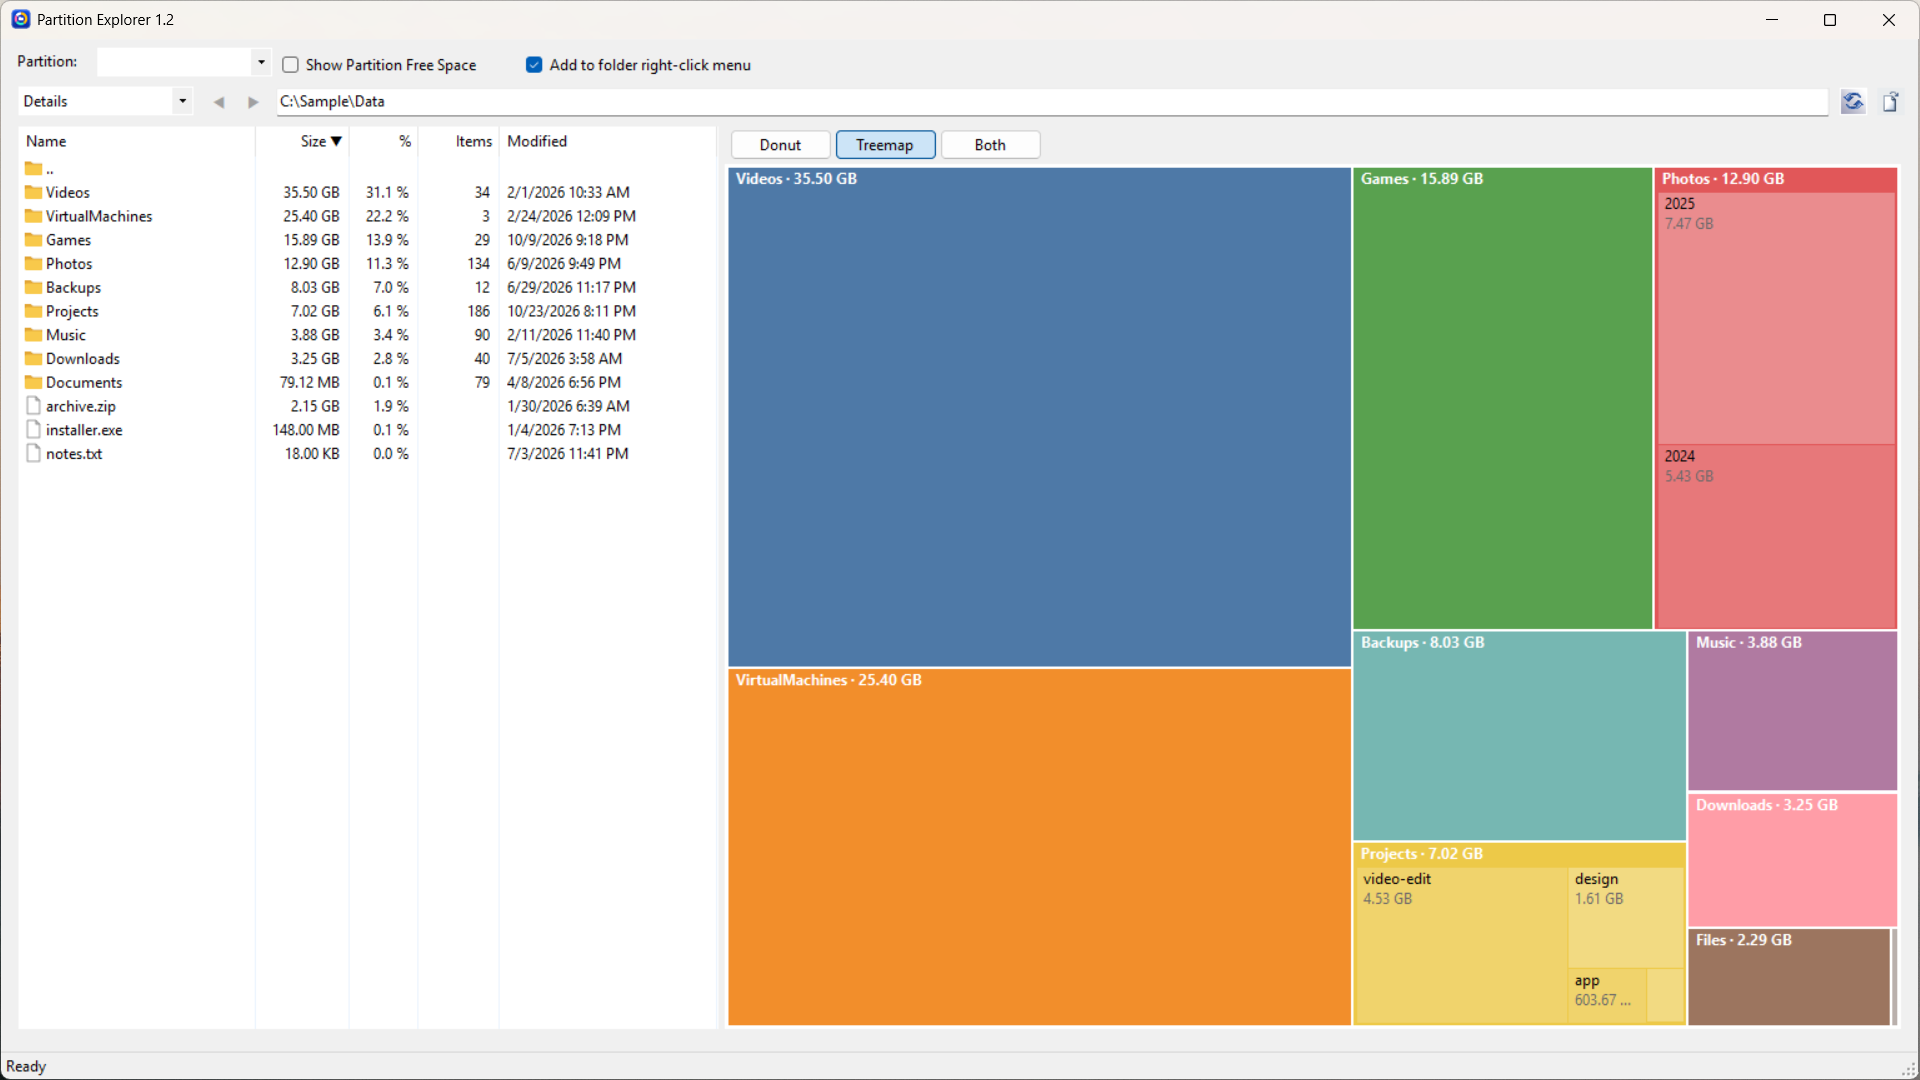
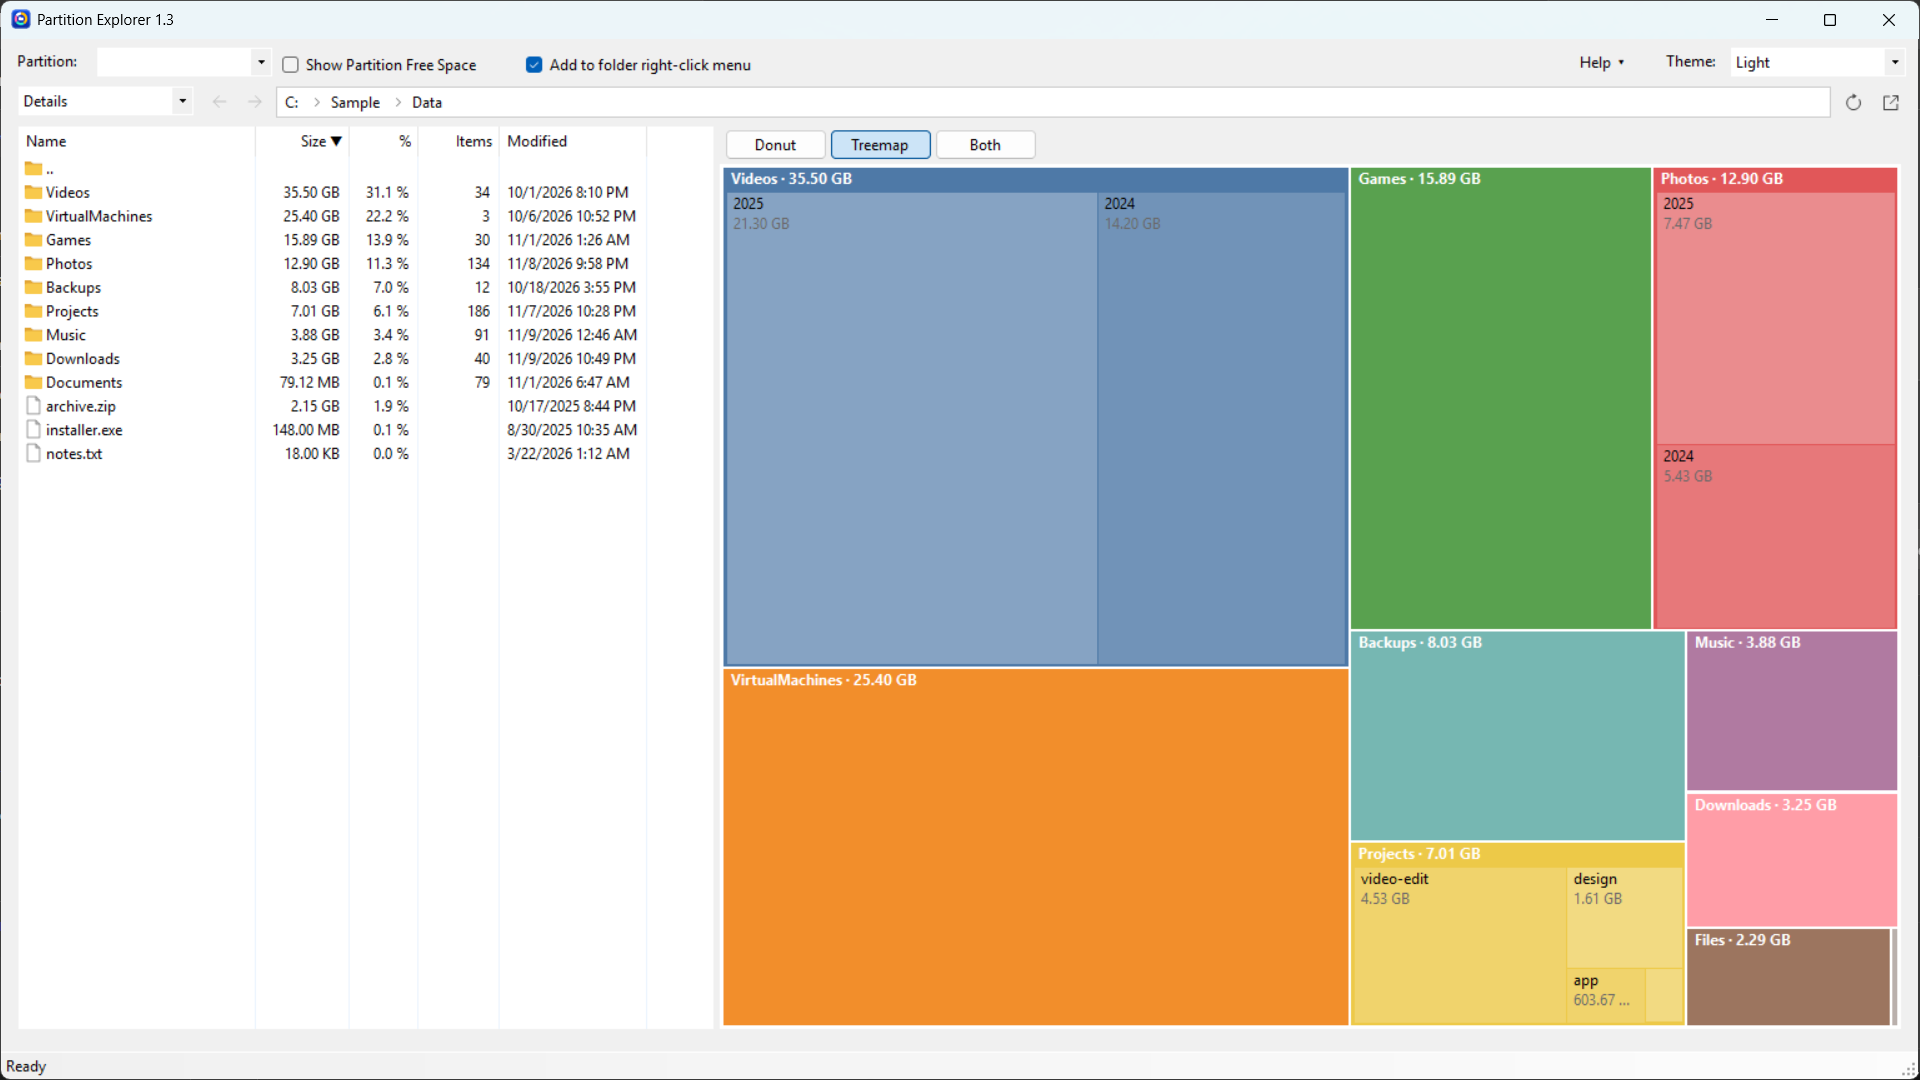
Retake screenshots for 1.3 and add a dark theme shot
Retake the README hero image and the five 1920x1080 screenshots in
docs/screenshots with the same neutral sample tree, so they show the 1.3
UI: the breadcrumb path bar, flat toolbar icons, Help button and Theme
drop-down. Add 06-dark (Both view in the dark theme) and list it in the
README's "More screenshots" table.

Claude-Session: https://claude.ai/code/session_01Sbopy5mp93H2gZmTNNUc7G

diff --git a/README.md b/README.md
@@ -24,6 +24,8 @@ PartitionExplorer scans a drive or folder and lists every subfolder and file wit
 | The treemap on its own. Big folders show their subfolders inside. | The donut on a drive root, with the partition's free space shown. |
 | ![A subfolder in Both view](docs/screenshots/04-subfolder.png) | ![Right-click menu on a folder](docs/screenshots/05-context-menu.png) |
 | Inside a subfolder. Back takes you to where you were. | The right-click menu on an item. |
+| ![Both view in the dark theme](docs/screenshots/06-dark.png) | |
+| The dark theme. Pick System, Light or Dark from the Theme drop-down. | |
 
 ## Features
 
